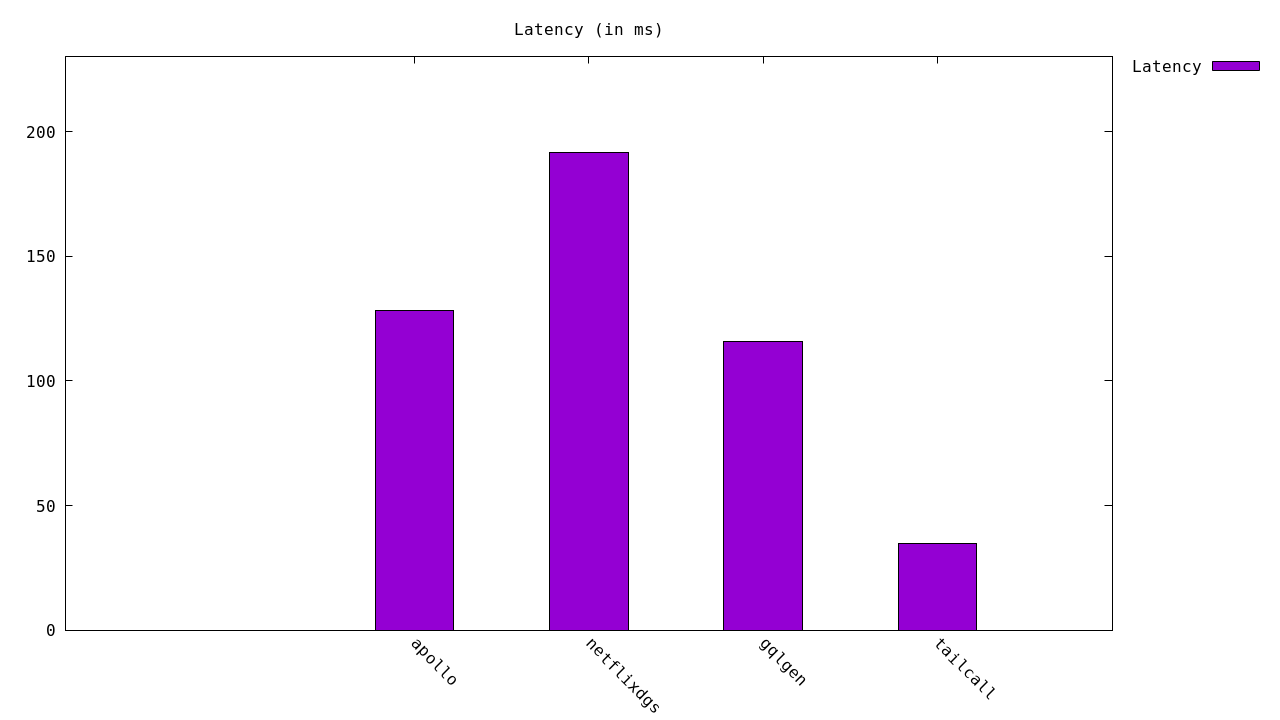
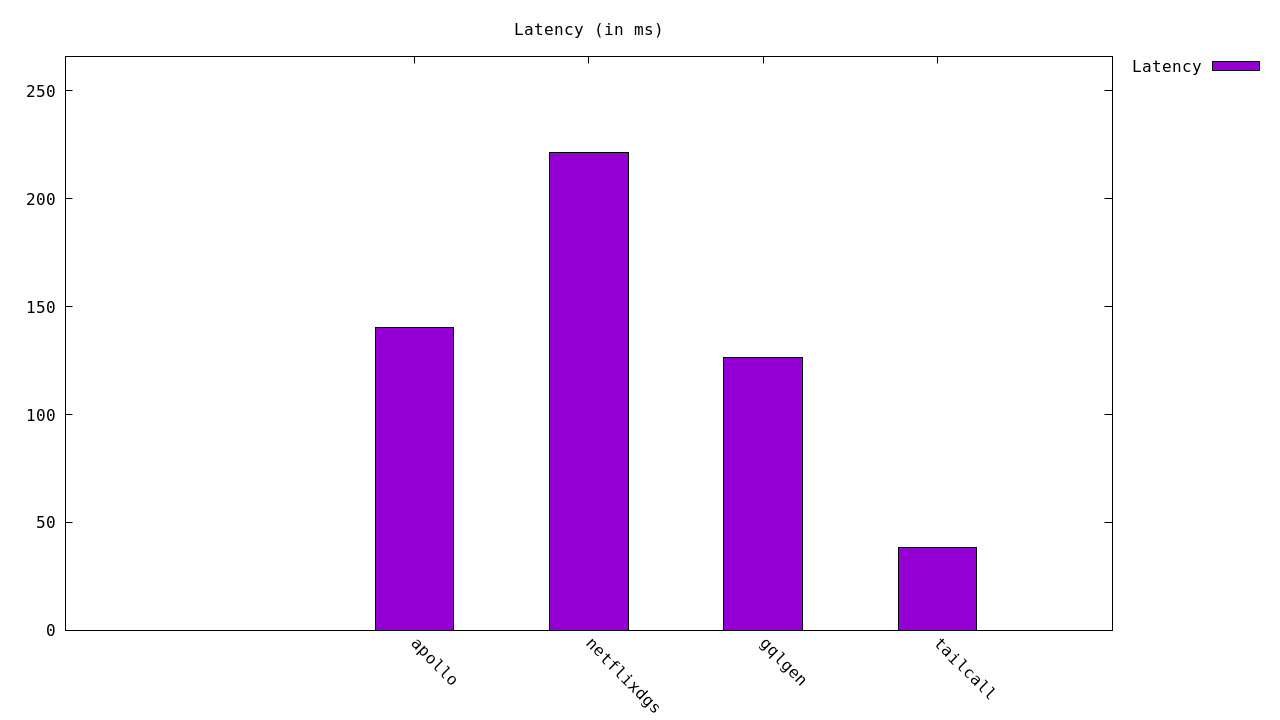
Updated performance results in README.md

diff --git a/README.md b/README.md
@@ -42,14 +42,12 @@ Get started with the benchmarks:
 ## Benchmark Results
 
 <!-- PERFORMANCE_RESULTS_START -->
-
-| Server           | Requests/sec | Latency (ms) |
-| ---------------- | -----------: | -----------: |
-| [Tailcall]       |   `2,890.68` |      `34.69` |
-| [Gqlgen]         |     `935.00` |     `115.73` |
-| [Apollo GraphQL] |     `793.37` |     `128.22` |
-| [Netflix DGS]    |     `597.39` |     `191.85` |
-
+| Server | Requests/sec | Latency (ms) |
+|--------|--------------|--------------|
+| apollo | 730.26 | 140.177 |
+| netflixdgs | 485.583 | 221.673 |
+| gqlgen | 861.423 | 126.627 |
+| tailcall | 2615.96 | 38.2867 |
 <!-- PERFORMANCE_RESULTS_END -->
 
 ### Throughput (Higher is better)
